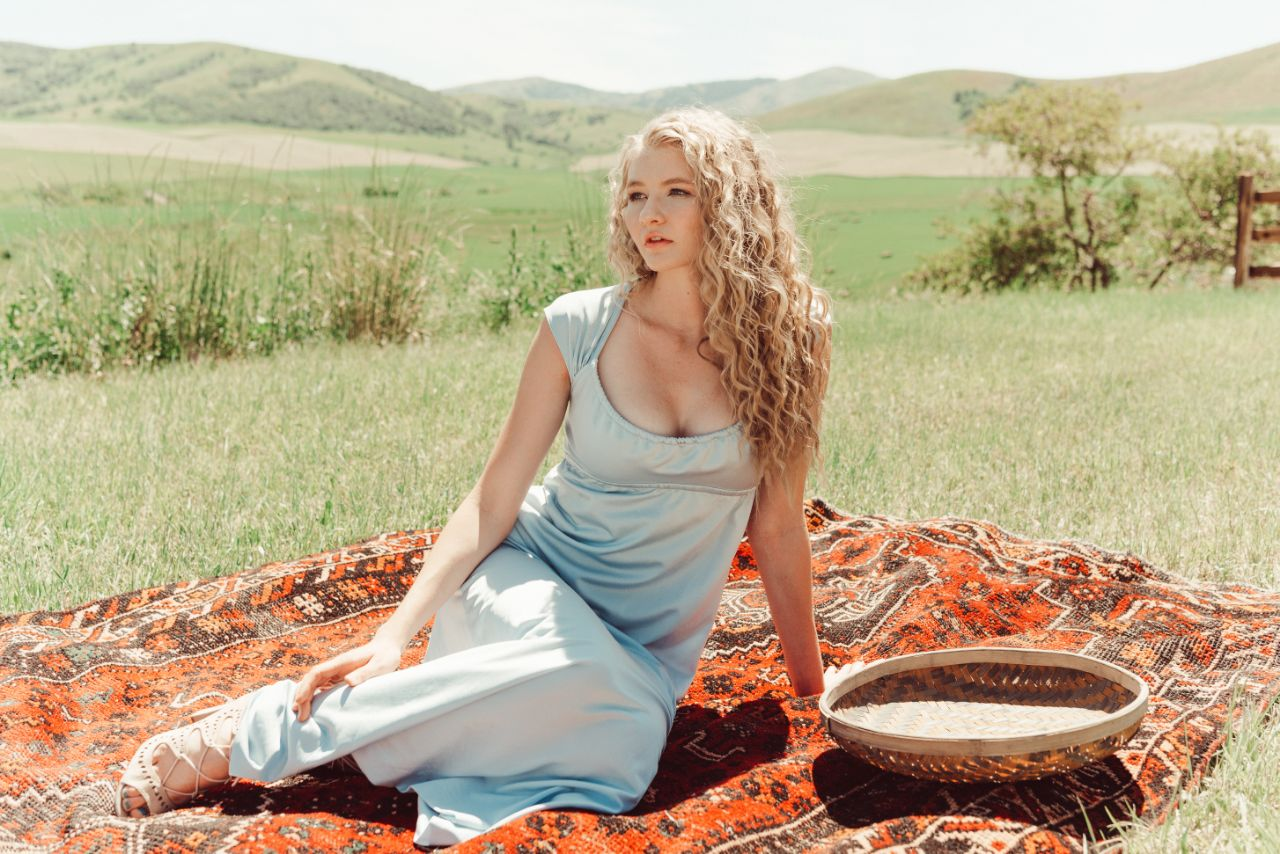
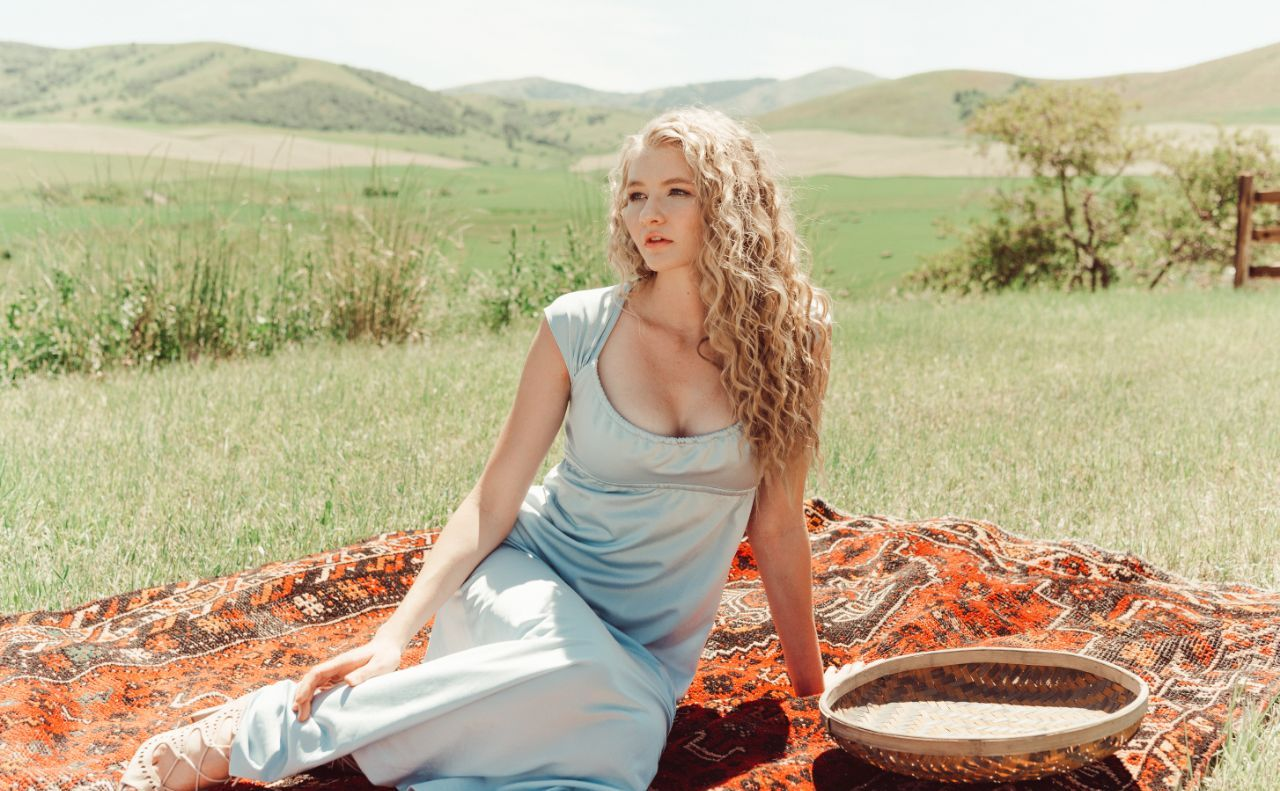
added Projects and Contact page

diff --git a/src/components/App.css b/src/components/App.css
@@ -6,7 +6,7 @@
 #mainAppContainer {
   background-image: url(../images/lara_sitting_with_dress.jpg);
   background-repeat: no-repeat;
-  height: 850px;
+  height: 791px;
   width: 1280px;
 }
 /* -------------------------------- TopMenu -------------------------------- */
@@ -15,27 +15,35 @@
   flex-direction: row;
   align-items: center;
   justify-content: space-between;
-  padding: 10px 20px 0 20px;
+  padding: 10px 30px 0 20px;
 }
 
 #topMenuTitle {
+  font-family: 'Chilanka', cursive;
   color: #5e8c4c;
   font-size: 32px;
-  font-family: 'Barlow Semi Condensed', sans-serif;
+}
+
+#topMenuNavContainer {
+  display: flex;
+  flex-direction: row;
+  justify-content: space-between;
 }
 
 .topMenuText {
+  font-family: 'Chilanka', cursive;
   color: #5e8c4c;
   font-size: 25px;
   font-weight: bold;
-  font-family: 'Barlow Semi Condensed', sans-serif;
+  padding-left: 20px;
 }
 
 /* ------------------------------------------------------------------------- */
 
 /* ------------------------------- Home Page ------------------------------- */
+#homeContainer {
 
-
+}
 /* ------------------------------------------------------------------------- */
 
 /* ----------------------------- About Me Page ----------------------------- */

diff --git a/src/components/pages/Projects.js b/src/components/pages/Projects.js
@@ -1,0 +1,31 @@
+import React, { Component } from 'react';
+import { Carousel } from 'react-responsive-carousel';
+
+
+
+
+class Projects extends Component {
+
+  componentDidMount() {
+    document.title='Projects'
+  }
+
+  render() {
+    return(
+      <div id='projectsContainer'>
+        <div id='projectsSubContainer'>
+          <Carousel id='carouselContainer' autoPlay interval={4000} showThumbs={false} infiniteLoop>
+              <div className='frontPagePhoto1'>
+              </div>
+              <div className='frontPagePhoto2'>
+              </div>
+              <div className='frontPagePhoto3'>
+              </div>
+          </Carousel>
+        </div>
+      </div>
+    )
+  }
+}
+
+export default Projects;

diff --git a/src/components/App.js b/src/components/App.js
@@ -12,6 +12,8 @@ import TopMenu from './menus/TopMenu';
 
 import Home from './pages/Home';
 import AboutMe from './pages/AboutMe';
+import Projects from './pages/Projects';
+import Contact from './pages/Contact';
 
 
 class App extends Component {
@@ -35,6 +37,8 @@ class App extends Component {
               <Switch>
                 <Route exact path='/' component={Home} />
                 <Route path='/about-me' component={AboutMe} />
+                <Route path='/projects' component={Projects} />
+                <Route path='/contact' component={Contact} />
                 <Redirect to='/' />
               </Switch>
             </div>

diff --git a/src/components/menus/TopMenu.js b/src/components/menus/TopMenu.js
@@ -29,8 +29,10 @@ class TopMenu extends Component {
         <Link to={`/`}>
           <Title id='topMenuTitle'>Lara Vanderlaan</Title>
         </Link>
-        <NavLink>
+        <NavLink id='topMenuNavContainer'>
           <Nav to={'/about-me'} className='topMenuText'>About Me</Nav>
+          <Nav to={'/projects'} className='topMenuText'>Projects</Nav>
+          <Nav to={'/contact'} className='topMenuText'>Contact</Nav>
         </NavLink>
       </div>
     )

diff --git a/src/components/pages/AboutMe.js b/src/components/pages/AboutMe.js
@@ -3,6 +3,10 @@ import React, { Component } from 'react';
 
 class AboutMe extends Component {
 
+  componentDidMount() {
+    document.title='About Me'
+  }
+
   render() {
     return(
       <h1>About Me</h1>

diff --git a/src/components/pages/Contact.js b/src/components/pages/Contact.js
@@ -1,0 +1,13 @@
+import React, { Component } from 'react';
+
+
+class Contact extends Component {
+
+  render() {
+    return(
+      <h1>Contact</h1>
+    )
+  }
+}
+
+export default Contact;

diff --git a/src/components/pages/Home.js b/src/components/pages/Home.js
@@ -5,8 +5,8 @@ class Home extends Component {
 
   render() {
     return(
-      <>
-      </>
+      <div id='homeContainer'>
+      </div>
     )
   }
 }
